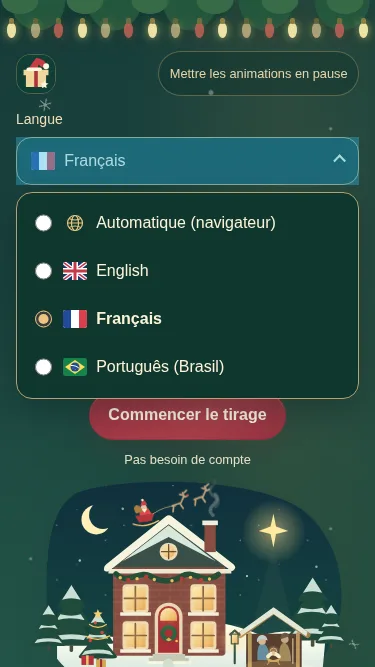
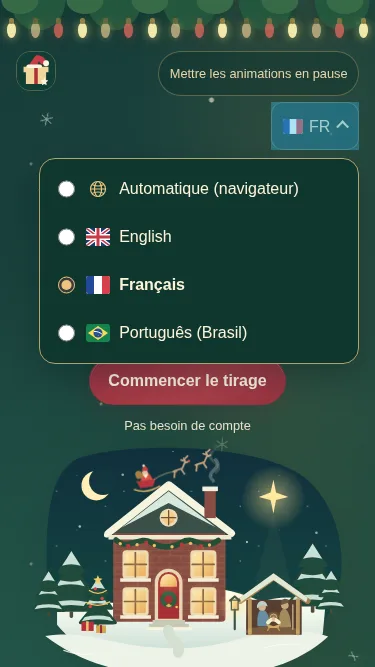
Make the language picker discreet without shrinking its menu

diff --git a/index.html b/index.html
@@ -23,19 +23,21 @@
     <div class="garland" aria-hidden="true"><span class="ambient-motion"></span><span class="ambient-motion"></span><span class="ambient-motion"></span><span class="ambient-motion"></span><span class="ambient-motion"></span><span class="ambient-motion"></span><span class="ambient-motion"></span><span class="ambient-motion"></span><span class="ambient-motion"></span><span class="ambient-motion"></span><span class="ambient-motion"></span><span class="ambient-motion"></span><span class="ambient-motion"></span><span class="ambient-motion"></span><span class="ambient-motion"></span><span class="ambient-motion"></span></div>
     <div class="topbar">
       <div class="wordmark"><img src="./apps/web/icon.svg" width="40" height="40" alt=""><span data-i18n="app.title">Secret Santa</span></div>
-      <button class="motion-toggle" type="button" disabled data-festivity-target="toggle" data-action="festivity#toggle" data-i18n="design.pause">Pause animations</button>
-      <div class="language-picker" data-controller="locale" data-action="languagechange@window->locale#detect locale:changed@document->locale#render pointerdown@document->locale#outside focusin@document->locale#outside keydown.esc@document->locale#escape resize@window->locale#position scroll@window->locale#position">
-        <span id="language-label" data-i18n="language.label">Language</span>
-        <details class="language-menu" data-locale-target="menu" data-action="toggle->locale#position">
-          <summary id="language" aria-disabled="true" aria-labelledby="language-label language-current" aria-controls="language-options" data-locale-target="trigger" data-action="keydown.down->locale#focusOptions:prevent keydown.up->locale#focusOptions:prevent"><span class="language-choice"><img class="language-icon" src="./apps/web/art/languages/auto.svg" width="24" height="18" alt="" data-locale-target="currentIcon"><span id="language-current" data-locale-target="current">Automatic (browser)</span></span></summary>
-          <fieldset id="language-options" class="language-options" disabled data-locale-target="choices" data-action="change->locale#change click->locale#choose keydown.enter->locale#commit:prevent">
-            <legend class="sr-only" data-i18n="language.label">Language</legend>
-            <label><input type="radio" name="interface-language" value="" checked data-locale-target="option"><span class="language-choice"><img class="language-icon" src="./apps/web/art/languages/auto.svg" width="24" height="18" alt=""><span class="language-name" data-i18n="language.auto">Automatic (browser)</span></span></label>
-            <label lang="en"><input type="radio" name="interface-language" value="en" data-locale-target="option"><span class="language-choice"><img class="language-icon" src="./apps/web/art/languages/en.svg" width="24" height="18" alt=""><span class="language-name">English</span></span></label>
-            <label lang="fr"><input type="radio" name="interface-language" value="fr" data-locale-target="option"><span class="language-choice"><img class="language-icon" src="./apps/web/art/languages/fr.svg" width="24" height="18" alt=""><span class="language-name">Français</span></span></label>
-            <label lang="pt-BR"><input type="radio" name="interface-language" value="pt-BR" data-locale-target="option"><span class="language-choice"><img class="language-icon" src="./apps/web/art/languages/pt-BR.svg" width="24" height="18" alt=""><span class="language-name">Português (Brasil)</span></span></label>
-          </fieldset>
-        </details>
+      <div class="topbar-controls">
+        <button class="motion-toggle" type="button" disabled data-festivity-target="toggle" data-action="festivity#toggle" data-i18n="design.pause">Pause animations</button>
+        <div class="language-picker" data-controller="locale" data-action="languagechange@window->locale#detect locale:changed@document->locale#render pointerdown@document->locale#outside focusin@document->locale#outside keydown.esc@document->locale#escape resize@window->locale#position scroll@window->locale#position">
+          <span id="language-label" class="sr-only" data-i18n="language.label">Language</span>
+          <details class="language-menu" data-locale-target="menu" data-action="toggle->locale#position">
+            <summary id="language" aria-disabled="true" aria-labelledby="language-label language-current" aria-controls="language-options" data-locale-target="trigger" data-action="keydown.down->locale#focusOptions:prevent keydown.up->locale#focusOptions:prevent"><span class="language-choice"><img class="language-icon" src="./apps/web/art/languages/auto.svg" width="24" height="18" alt="" data-locale-target="currentIcon"><span id="language-current" class="sr-only" data-locale-target="current">Automatic (browser)</span><span aria-hidden="true" data-i18n="language.short">EN</span></span></summary>
+            <fieldset id="language-options" class="language-options" disabled data-locale-target="choices" data-action="change->locale#change click->locale#choose keydown.enter->locale#commit:prevent">
+              <legend class="sr-only" data-i18n="language.label">Language</legend>
+              <label><input type="radio" name="interface-language" value="" checked data-locale-target="option"><span class="language-choice"><img class="language-icon" src="./apps/web/art/languages/auto.svg" width="24" height="18" alt=""><span class="language-name" data-i18n="language.auto">Automatic (browser)</span></span></label>
+              <label lang="en"><input type="radio" name="interface-language" value="en" data-locale-target="option"><span class="language-choice"><img class="language-icon" src="./apps/web/art/languages/en.svg" width="24" height="18" alt=""><span class="language-name">English</span></span></label>
+              <label lang="fr"><input type="radio" name="interface-language" value="fr" data-locale-target="option"><span class="language-choice"><img class="language-icon" src="./apps/web/art/languages/fr.svg" width="24" height="18" alt=""><span class="language-name">Français</span></span></label>
+              <label lang="pt-BR"><input type="radio" name="interface-language" value="pt-BR" data-locale-target="option"><span class="language-choice"><img class="language-icon" src="./apps/web/art/languages/pt-BR.svg" width="24" height="18" alt=""><span class="language-name">Português (Brasil)</span></span></label>
+            </fieldset>
+          </details>
+        </div>
       </div>
     </div>
     <header class="site-header" data-page-target="welcome">

diff --git a/apps/web/styles.css b/apps/web/styles.css
@@ -53,18 +53,21 @@ a { color: var(--green); text-underline-offset: .2em; }
 [data-motion="paused"] .ambient-motion { animation-play-state: paused; }
 
 .topbar, .site-header, main, footer { position: relative; z-index: 1; }
-.topbar { max-width: 1200px; margin: 0 auto; padding: 3.3rem 2rem 0; display: grid; grid-template-columns: minmax(0, 1fr) auto auto; align-items: center; gap: 1rem; z-index: 3; }
+.topbar { max-width: 1200px; margin: 0 auto; padding: 3.3rem 2rem 0; display: flex; align-items: flex-start; gap: .75rem; z-index: 3; }
+.topbar-controls { display: flex; flex-wrap: wrap; align-items: center; justify-content: flex-end; gap: .4rem; min-width: 0; max-width: calc(100% - 3.5rem); margin-inline-start: auto; }
 .wordmark { display: flex; gap: .65rem; align-items: center; font: 600 1.15rem/1.2 Georgia, serif; color: #f2dfb6; }
 .wordmark img { border: 1px solid #d7b66a55; border-radius: .9rem; }
-.language-picker { display: grid; grid-template-columns: auto minmax(0, 1fr); align-items: center; gap: .6rem; font-size: .8rem; min-width: 0; }
-.language-picker > span { color: #f2dfb6; }
-.language-menu { position: relative; min-width: 0; width: clamp(13rem, 19vw, 18rem); }
-.language-menu summary { display: flex; align-items: center; justify-content: space-between; gap: .8rem; min-height: 3rem; width: 100%; padding: .65rem .85rem; border: 1px solid #b9a16a; border-radius: .95rem; background: #10372f; color: #fff3d7; font-size: 1rem; font-weight: 400; list-style: none; }
+.language-picker { min-width: 0; max-width: 100%; }
+.language-menu { position: relative; min-width: 0; }
+.language-menu summary { display: flex; align-items: center; justify-content: space-between; gap: .5rem; min-height: 3rem; min-width: 3rem; padding: .5rem .65rem; border: 1px solid transparent; border-radius: .75rem; background: transparent; color: #f2dfb6; font-size: 1rem; font-weight: 400; list-style: none; }
+.language-menu summary:hover, .language-menu[open] summary { border-color: #e1bc7455; background: #0c302a66; }
+.language-menu summary .language-choice { grid-template-columns: 1.25rem auto; gap: .4rem; }
+.language-menu summary .language-icon { width: 1.25rem; height: .9375rem; }
 .language-menu summary::-webkit-details-marker { display: none; }
 .language-menu summary::after { content: ''; flex: 0 0 .45rem; height: .45rem; border-right: 2px solid currentColor; border-bottom: 2px solid currentColor; transform: rotate(45deg); }
 .language-menu[open] summary::after { transform: rotate(225deg); }
 .language-menu summary[aria-disabled="true"] { opacity: .6; cursor: not-allowed; }
-.language-options { position: absolute; inset-inline: 0; top: calc(100% + .45rem); width: 100%; max-width: calc(100vw - 2rem); min-height: 0; max-height: min(18rem, 45dvh); overflow-y: auto; overscroll-behavior: contain; padding: .4rem; border: 1px solid #b9a16a; border-radius: 1rem; background: #10372f; color: #fff3d7; box-shadow: 0 12px 35px #041c2255; z-index: 5; }
+.language-options { position: absolute; inset-inline: auto 0; top: calc(100% + .45rem); width: min(20rem, calc(100vw - 2rem)); min-height: 0; max-height: min(18rem, 45dvh); overflow-y: auto; overscroll-behavior: contain; padding: .4rem; border: 1px solid #b9a16a; border-radius: 1rem; background: #10372f; color: #fff3d7; box-shadow: 0 12px 35px #041c2255; z-index: 5; }
 .language-menu.opens-up .language-options { top: auto; bottom: calc(100% + .45rem); }
 .language-options label { display: grid; grid-template-columns: 1.1rem minmax(0, 1fr); align-items: center; gap: .65rem; min-height: 3rem; margin: 0; padding: .65rem .7rem; border-radius: .65rem; font-size: 1rem; line-height: 1.35; font-weight: 400; color: #fff3d7; cursor: pointer; }
 .language-options label:hover, .language-options label:focus-within { background: #295447; }
@@ -73,7 +76,7 @@ a { color: var(--green); text-underline-offset: .2em; }
 .language-options span { min-width: 0; overflow-wrap: anywhere; }
 .language-choice { display: grid; grid-template-columns: 1.5rem minmax(0, 1fr); align-items: center; gap: .6rem; min-width: 0; line-height: 1.35; }
 .language-icon { display: block; width: 1.5rem; height: 1.125rem; border-radius: .15rem; }
-button.motion-toggle { border-color: #e1bc7455; color: #ead5aa; background: #0c302a66; font-size: .75rem; font-weight: 500; padding: .45rem .65rem; min-height: 2.6rem; }
+button.motion-toggle { border-color: #e1bc7455; color: #ead5aa; background: #0c302a66; font-size: .75rem; font-weight: 500; padding: .45rem .65rem; min-height: 2.6rem; max-width: 100%; }
 .topbar :focus-visible { outline-color: #f4d28e; }
 .site-header { max-width: 1200px; margin: 1rem auto 4rem; display: grid; grid-template-columns: 1fr 1.1fr; align-items: center; padding: 1rem 2rem 0; gap: .5rem; }
 .hero-copy { padding: 2rem 0 2rem 1rem; }
@@ -186,11 +189,8 @@ footer summary { color: #f0dfb4; }
   .hero-tagline { font-size: .9rem; }
 }
 @media (max-width: 650px) {
-  .topbar { grid-template-columns: 40px minmax(0, 1fr); padding: 3.2rem 1rem 0; gap: .75rem; }
-  .language-picker { grid-column: 1 / -1; grid-template-columns: minmax(0, 1fr); width: 100%; gap: .35rem; }
-  .language-picker > span { font-size: .875rem; }
-  .language-menu { width: 100%; }
-  button.motion-toggle { justify-self: end; max-width: 100%; font-size: .8rem; min-height: 2.8rem; }
+  .topbar { padding: 3.2rem 1rem 0; }
+  button.motion-toggle { font-size: .8rem; min-height: 2.8rem; }
   .site-header { grid-template-columns: 1fr; text-align: center; margin: .5rem auto 2rem; padding: 0 1.25rem; gap: 0; }
   .hero-copy { padding: .5rem .25rem 0; }
   .hero-copy .eyebrow { justify-content: center; font-size: .65rem; }

diff --git a/service-worker.js b/service-worker.js
@@ -1,6 +1,6 @@
 // Bump the version whenever any precached runtime file changes. Install the
 // whole release before activation; do not replace a running app without consent.
-const CACHE_VERSION = '2026-10-27-ux-1';
+const CACHE_VERSION = '2026-10-27-ux-2';
 const SCOPE = new URL(self.registration.scope);
 const CACHE_PREFIX = `secretsanta-shell:${encodeURIComponent(SCOPE.pathname)}:`;
 const CACHE_NAME = `${CACHE_PREFIX}${CACHE_VERSION}`;

diff --git a/apps/web/i18n/pt-BR.js b/apps/web/i18n/pt-BR.js
@@ -7,6 +7,7 @@ export default {
   'app.unexpected': 'Algo deu errado. Tente novamente em um navegador atualizado.',
   'language.label': 'Idioma',
   'language.auto': 'Automático (navegador)',
+  'language.short': 'PT-BR',
   'nav.skip': 'Ir para o amigo secreto',
   'hero.kicker': 'Amigo secreto de Natal',
   'hero.tagline': 'Sorteie os nomes e envie um convite privado para cada pessoa.',

diff --git a/apps/web/i18n/fr.js b/apps/web/i18n/fr.js
@@ -7,6 +7,7 @@ export default {
   'app.unexpected': 'Une erreur est survenue. Réessayez avec un navigateur à jour.',
   'language.label': 'Langue',
   'language.auto': 'Automatique (navigateur)',
+  'language.short': 'FR',
   'nav.skip': 'Aller à l’échange',
   'hero.kicker': 'Cadeaux de Noël',
   'hero.tagline': 'Tirez les noms au sort et envoyez à chacun son invitation privée.',

diff --git a/apps/web/i18n/en.js b/apps/web/i18n/en.js
@@ -7,6 +7,7 @@ export default {
   'app.unexpected': 'Something went wrong. Please try again in an up-to-date browser.',
   'language.label': 'Language',
   'language.auto': 'Automatic (browser)',
+  'language.short': 'EN',
   'nav.skip': 'Skip to the exchange',
   'hero.kicker': 'Christmas gift exchange',
   'hero.tagline': 'Draw names and send everyone a private invitation.',

diff --git a/docs/testing.md b/docs/testing.md
@@ -46,6 +46,7 @@ Run on Safari/iOS, Safari/macOS, Chrome/Android, desktop Chrome, Firefox, and Ed
 - [ ] Check the network panel: static same-origin assets only; no fields or invitation fragments in request URLs.
 - [ ] Check English, French, and Brazilian Portuguese, browser-language detection, English fallback, and the automatic/manual language selector. Switch languages before and after drawing/revealing; no fields or assignments should change.
 - [ ] Check radio, flag, and text alignment, including wrapped labels and enlarged text. Confirm the selected flag (or Automatic globe) appears in the closed picker and all icons load offline. Screen readers should announce language names without flag descriptions.
+- [ ] Check the compact toolbar code reflects the active language, including browser detection. The closed trigger stays discreet, while opening it shows full names within the screen. Verify the pause control remains usable when toolbar controls wrap.
 - [ ] Open the language picker on each mobile browser, including landscape and enlarged text. Check the open panel stays within the screen, all choices remain reachable, radio arrows work, and Escape/outside taps/Tab dismiss it without trapping focus. Check the disclosure name and radio group with a screen reader.
 
 ## Verified in the initial implementation
@@ -90,7 +91,7 @@ BASE_URL=http://localhost:8000/ PLAYWRIGHT_MODULE=/tmp/opencode/secretsanta-brow
 
 The copy/motion follow-up adds an English HTML/catalogue synchronisation check. The design scenarios verify that the sleigh, smoke, windows, star, and snowflakes really have running animation timelines; pausing stops every ambient timeline, including its clock. They also test live reduced-motion changes and verify that paused/reduced entry effects never leave invitation cards hidden. Updated desktop/mobile screenshots were inspected, and the added illustration layers are included in the offline coverage check.
 
-The mobile-picker follow-up checks 16px text, 48px minimum rows, fluid sizing, and centre-point hit testing. The original native-popup test did not check the popup's bounds. The replacement uses native details and radios in an in-page panel: tests tap it open, check every panel edge against the viewport, verify no internal horizontal overflow, and tap Automatic/English/French/Portuguese. Separate checks use native radio arrow navigation, Enter/Escape, Tab, and outside clicks. They also cover 667 × 375px landscape, a 375 × 280px short viewport, and doubled root text size at 320px, including reaching the last choice by scrolling the panel. A screenshot records the open French picker at 375 × 667px. Actual Safari/iOS, browser zoom, and screen readers still require manual checks.
+The mobile-picker follow-up checks 16px text, a 48px minimum trigger/rows, compact trigger width, and centre-point hit testing. The original native-popup test did not check the popup's bounds. The replacement uses native details and radios in an in-page panel: tests tap it open, check every panel edge against the viewport, verify no internal horizontal overflow, and tap Automatic/English/French/Portuguese. The panel stays wider than the discreet trigger, and the compact code follows the active language. Separate checks use native radio arrow navigation, Enter/Escape, Tab, and outside clicks. They also cover 667 × 375px landscape, a 375 × 280px short viewport, and doubled root text size at 320px, including reaching the last choice by scrolling the panel. A screenshot records the open French picker at 375 × 667px. Actual Safari/iOS, browser zoom, and screen readers still require manual checks.
 
 Alignment checks measure the vertical centres of each native radio, local flag/globe icon, and text label (within 1px), and verify the columns line up across all choices. They include wrapped text and doubled root text size. Tests also check icon loading, selected-icon updates, and unchanged accessible radio names. The worker scenarios verify every language icon loads after an offline reload.
 

diff --git a/docs/design.md b/docs/design.md
@@ -20,9 +20,11 @@ Every continuous effect uses the shared `ambient-motion` class. Pausing freezes 
 
 ## Mobile language selector
 
-The language picker occupies a full-width toolbar row on narrow screens. A native details/summary disclosure opens a labelled fieldset of native radio controls. The open panel matches the trigger width, wraps long labels, and scrolls internally when vertical space is limited. A small Stimulus controller measures the available height and opens the panel above the trigger when needed. Text is at least 16px and choice rows are at least 48px high.
+The language picker is a quiet toolbar disclosure with a small flag/globe and the current interface code (EN, FR, or PT-BR). The full translated label and selected preference remain available to assistive technology. Its closed surface is transparent; a subtle background and border appear on hover or opening. A wrapping toolbar keeps the pause control usable on narrow screens and with enlarged text.
 
-Choice rows use fixed radio and icon columns with vertically centred text. Native radio margins are reset so browser defaults cannot offset the controls. The mobile label sits above the trigger to leave room for flags and enlarged text. Original local SVG icons show the UK flag for English, France for French, Brazil for Brazilian Portuguese, and a globe for Automatic. The selected icon also appears in the closed picker. Icons have empty alt text; language names remain the accessible labels. All four icons are precached for offline use.
+A native details/summary disclosure opens a labelled fieldset of native radio controls. The panel is right-aligned and sized independently of the compact trigger, up to 20rem or the viewport minus side gutters. Full language names wrap and scroll internally when vertical space is limited. A small Stimulus controller measures the available height and opens the panel above the trigger when needed. Text is at least 16px, with a 48px minimum trigger and choice rows.
+
+Choice rows use fixed radio and icon columns with vertically centred text. Native radio margins are reset so browser defaults cannot offset the controls. Original local SVG icons show the UK flag for English, France for French, Brazil for Brazilian Portuguese, and a globe for Automatic. The selected icon also appears in the closed picker. With Automatic selected, the compact code reflects the detected interface language. Icons have empty alt text; full language/preference names remain the accessible labels. All four icons are precached for offline use.
 
 The earlier native select fix only checked the closed control and popup opening. The user's screenshot showed the browser-owned popup overflowing the emulated viewport. The in-page panel now has directly testable bounds. Touch checks open it at 320px, 375 × 667px, and 390px in all 3 languages, measure every edge against the viewport, and select every choice. Additional checks cover keyboard navigation, Escape, outside clicks, focus return, landscape, short screens, and doubled root text size. Physical iOS and screen-reader review remain unverified. The worker version was bumped for the revised runtime.
 
